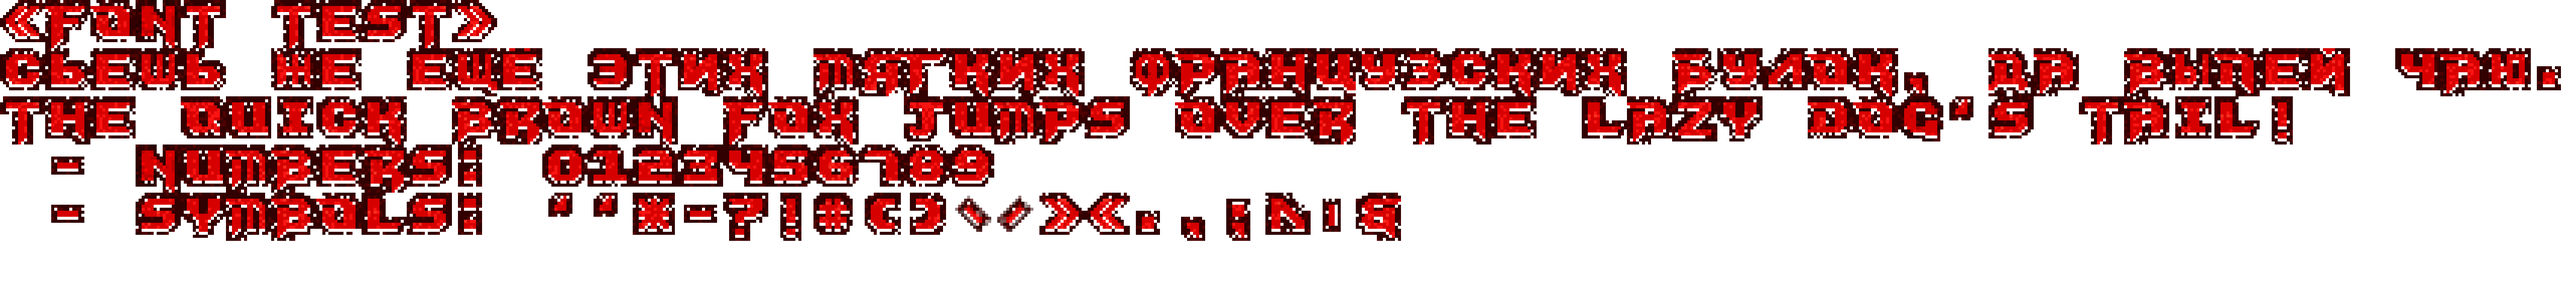
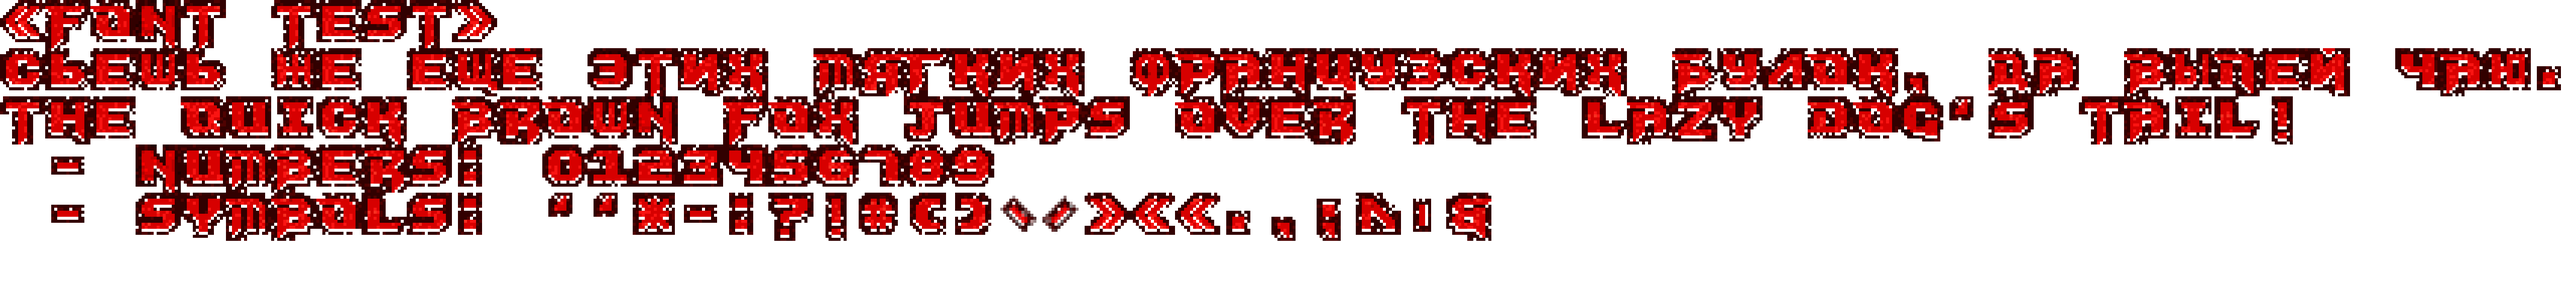
little fix

Changed region(s): [[0.2807, 0.6562, 0.5926, 0.8438]]

diff --git a/bin/font/renderText.py b/bin/font/renderText.py
@@ -183,7 +183,7 @@ def main():
             "СЪЕШЬ ЖЕ ЕЩЁ ЭТИХ МЯГКИХ ФРАНЦУЗСКИХ БУЛОК, ДА ВЫПЕЙ ЧАЮ.\n"
             "THE QUICK BROWN FOX JUMPS OVER THE LAZY DOG'S TAIL!\n"
             " - numbers: 0123456789\n"
-            " - symbols: '`*-?!#()\\/><.,;^|&%$@_{}[]\n"
+            " - symbols: '`*-:?!#()\\/><\".,;^|&%$@_{}[]\n"
         )
     else:
         render_input = args.text
